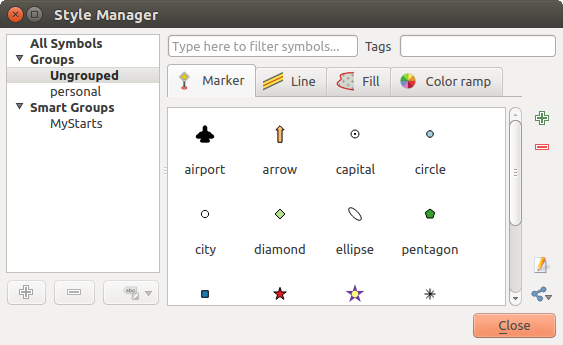
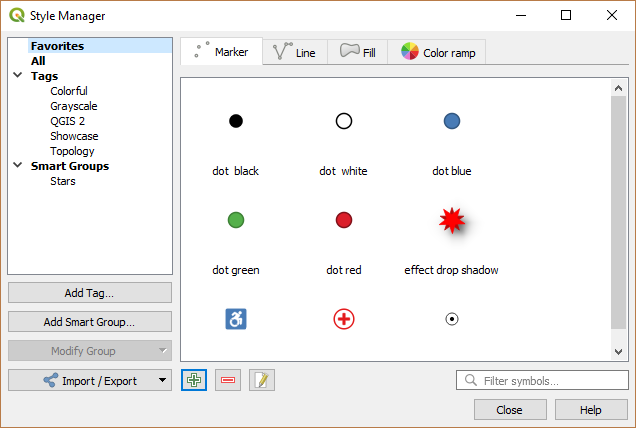
Overview of the Style Manager dialog

diff --git a/source/docs/user_manual/working_with_vector/style_library.rst b/source/docs/user_manual/working_with_vector/style_library.rst
@@ -21,14 +21,22 @@
 The Style Manager
 ==================
 
-The Style Manager is the place where users can manage and create generic symbols
-to be used in several QGIS projects. You can open it with the :menuselection:`Settings
---> Style Manager` or from the **Style** tab in the vector layer's
-:menuselection:`Properties`. It allows users to:
+The :guilabel:`Style Manager` is the place where users can manage and create
+generic symbols and color ramps to be used in several QGIS projects. You can
+open that modeless dialog:
 
-* create, edit and remove symbols
-* organize symbols in custom groups
-* export and import symbols.
+* with the |styleManager| :sup:`Style Manager` button of the Project toolbar;
+* from the :menuselection:`Settings -->` |styleManager| :menuselection:`Style
+  Manager...` menu;
+* or from a vector :menuselection:`Layer Properties --> Symbology` tab (using the
+  |styleManager| :sup:`Style Manager` button in a :ref:`symbol property
+  <symbol-selector>` dialog).
+
+The dialog allows you to:
+
+* create, edit and remove symbols and color ramps;
+* organize symbols and color ramps in custom groups;
+* export and import symbols and color ramps.
 
 .. _figure_style_manager:
 
@@ -40,24 +48,36 @@ to be used in several QGIS projects. You can open it with the :menuselection:`Se
 
 .. _group_symbols:
 
-Groups and smart groups
-------------------------
+Organizing symbols and color ramps
+----------------------------------
 
-You can organize symbols into different categories. These categories, listed in
-the panel at the left, can be static (called **Group**) or dynamic (named
-**Smart Group**). A group is smart when its symbols are dynamically fetched
-according to conditions set. See figure_smart_group_:
+The :guilabel:`Style Manager` dialog displays in its center a frame with
+previewed items organized into tabs:
 
-To create a group, right click on an existing group or on the main **Groups**
-directory in the left of the dialog.
-You can also select a group and click the |signPlus| :sup:`Add Group`
-button. The new group will be a sub-group of the selected one.
+* |pointLayer| :guilabel:`Marker` for point symbols;
+* |lineLayer| :guilabel:`Line` for linear symbols;
+* |polygonLayer| :guilabel:`Fill` for surface symbols;
+* and |color| :guilabel:`Color ramp`.
 
-Create **Smart Group** is similar to creating group, but instead select
-**Smart Groups**. The dialog box allows user to choose the expression to
-select symbols in order to appear in the smart group (contains some tags,
-member of a group, have a string in its name, etc.). Any symbol that satisfies
-the entered condition(s) is automatically added to the smart group.
+For each family of items, you can organize the elements into different categories,
+listed in the panel on the left:
+
+* **Favorites**: displayed by default when configuring an item, it shows a
+  set of default symbols and color ramps you can extend;
+* **All**: listing all the installed symbols and color ramps;
+* **Tags**: shows a list of labels you can use to identify the items.
+  A symbol or color ramp can be tagged more than once. Select a tag in the list
+  and you'll see the items that belong to it for each type of item.
+  To create a new tag you could later attach to symbols or color ramps, use the
+  **[Add tag...]** button or select the |signPlus| :guilabel:`Add Tag...`
+  from any tag contextual menu;
+* **Smart Group**: a smart group dynamically fetches its symbols according to
+  conditions set (see eg, figure_smart_group_). Click the **[Add smart group...]**
+  button to create smart groups. The dialog box allows you to enter an expression
+  to filter the items to select (has a particular tag, have a string in its name,
+  etc.). Any symbol or color ramp that satisfies the entered condition(s) is
+  automatically added to the smart group.
+
 
 .. _figure_smart_group:
 
@@ -66,43 +86,53 @@ the entered condition(s) is automatically added to the smart group.
 
    Creating a Smart Group
 
-To remove a group or a smart group, right click on the group and select
-:menuselection:`Remove Group` or select it and push
-|signMinus| :sup:`Remove Group` button.
+Tags and smart groups are not mutually exclusive: they are simply two different
+ways to organize your symbols and color ramps. 
+Unlike the smart groups that automatically fetch their belonged items based on
+the input constraints, tags are filled by the user. To edit any of those categories,
+you can either:
 
-Unlike the smart groups that automatically fetch their belonged symbols,
-simple groups are filled by the user.
-To add a symbol into a group, you can either right click on a symbol, choose
-:menuselection:`Apply Group` and then the group name. There is a second
-way to add several symbols into a group: just select the group, click
-|changeLabelProperties| and choose :menuselection:`Group Symbols`. All
-symbols display a checkbox that allows you to add the symbol into the selected
-groups. When selection is finished, you can click the same button, and
-choose :menuselection:`Finish Grouping`.
+* select the items, right-click and choose :menuselection:`Add to Tag -->`
+  and then select the tag name or create a new tag;
+* select the tag and press :guilabel:`Modify group... --> Attach Selected Tag
+  to Symbols`. A |unchecked| checkbox appears near each item to help you select
+  or deselect it. When selection is finished, press :guilabel:`Modify group... -->
+  Finish Tagging`.
+* select the smart group, press :guilabel:`Modify group... --> Edit smart group...`
+  and configure a new set of constraints in the :guilabel:`Smart Group Editor` dialog.
+  This option is also available in the contextual menu of the smart group.
 
-All the symbols that are not placed under a custom group belong
-to a default group named **Ungrouped**.
+To remove a tag or a smart group, right-click on it and select the |signMinus|
+:guilabel:`Remove` button. Note that this does not delete the items grouped in the
+category.
 
-Add, Edit, Remove Symbol
--------------------------
+Adding, editing or removing an item
+-----------------------------------
 
-Selecting a group returns in the right panel, if applicable, the list of symbols
-of the group (including its subgroups). These symbols are organized in four
-different tabs:
+As seen earlier, symbols and color ramps are listed under different tabs whose
+contents depend on the active category (tag, smart group, favorites...). For each
+type of symbols (*Marker* , *Line* or *Fill*) and color ramp, when the tab is
+enabled, you can:
 
-* **Marker** for point symbols
-* **Line** for linear symbols
-* **Fill** for surface symbols
-* and :ref:`color-ramp`.
+* add new items: press the |signPlus| :sup:`Add item` button and configure the
+  item following :ref:`symbols <symbol-selector>` or :ref:`color ramps <color-ramp>`
+  builder description;
+* modify an existing item: select an item and press |symbologyEdit| :sup:`Edit item`
+  button and configure as mentioned above; 
+* delete existing items: to delete a symbol you no longer need, select it and click
+  |signMinus| :sup:`Remove item` (also available through right-click).
+  The symbol will be deleted from the local symbols database.
 
-To delete a symbol you no longer need, just select it and click |signMinus|
-:sup:`Remove item` (also available through right-click).
-The symbol will be deleted from the local symbols database.
+Right-clicking over a selection of items also allows you to:
 
-The symbol list can be modified by adding new symbols with |signPlus|
-:sup:`Add item` button or modifying existing ones with |symbologyEdit|
-:sup:`Edit item`.
-See :ref:`symbol-selector` for further information.
+* :guilabel:`Add to Favorites`;
+* :guilabel:`Remove from Favorites`;
+* :guilabel:`Add to Tag -->` and select the appropriate tag or create a new one to use;
+* :guilabel:`Clear Tags`: detaching the symbols from any tag;
+* :guilabel:`Remove Item(s)`;
+* :guilabel:`Edit Item`: applies to the item you right-click over;
+* :guilabel:`Export Selected Symbol(s) as PNG...` (not available with color ramps);
+* :guilabel:`Export Selected Symbol(s) as SVG...` (not available with color ramps);
 
 .. _share_symbols:
 
@@ -553,17 +583,22 @@ viewing the field.
    please add it also to the substitutions.txt file in the
    source folder.
 
-.. |changeLabelProperties| image:: /static/common/mActionChangeLabelProperties.png
-   :width: 1.5em
 .. |checkbox| image:: /static/common/checkbox.png
    :width: 1.3em
+.. |color|  image:: /static/common/color.png
 .. |dataDefined| image:: /static/common/mIconDataDefine.png
    :width: 1.5em
 .. |duplicateLayer| image:: /static/common/mActionDuplicateLayer.png
    :width: 1.5em
+.. |lineLayer| image:: /static/common/mIconLineLayer.png
+   :width: 1.5em
 .. |locked| image:: /static/common/locked.png
    :width: 1.5em
 .. |paintEffects| image:: /static/common/mIconPaintEffects.png
+   :width: 1.5em
+.. |pointLayer| image:: /static/common/mIconPointLayer.png
+   :width: 1.5em
+.. |polygonLayer| image:: /static/common/mIconPolygonLayer.png
    :width: 1.5em
 .. |selectString| image:: /static/common/selectstring.png
    :width: 2.5em
@@ -573,6 +608,10 @@ viewing the field.
    :width: 1.5em
 .. |signPlus| image:: /static/common/symbologyAdd.png
    :width: 1.5em
+.. |styleManager| image:: /static/common/mActionStyleManager.png
+   :width: 1.5em
 .. |symbologyEdit| image:: /static/common/symbologyEdit.png
    :width: 1.5em
+.. |unchecked| image:: /static/common/checkbox_unchecked.png
+   :width: 1.3em
 .. |updatedisclaimer| replace:: :disclaimer:`Docs in progress for 'QGIS testing'. Visit http://docs.qgis.org/2.18 for QGIS 2.18 docs and translations.`
